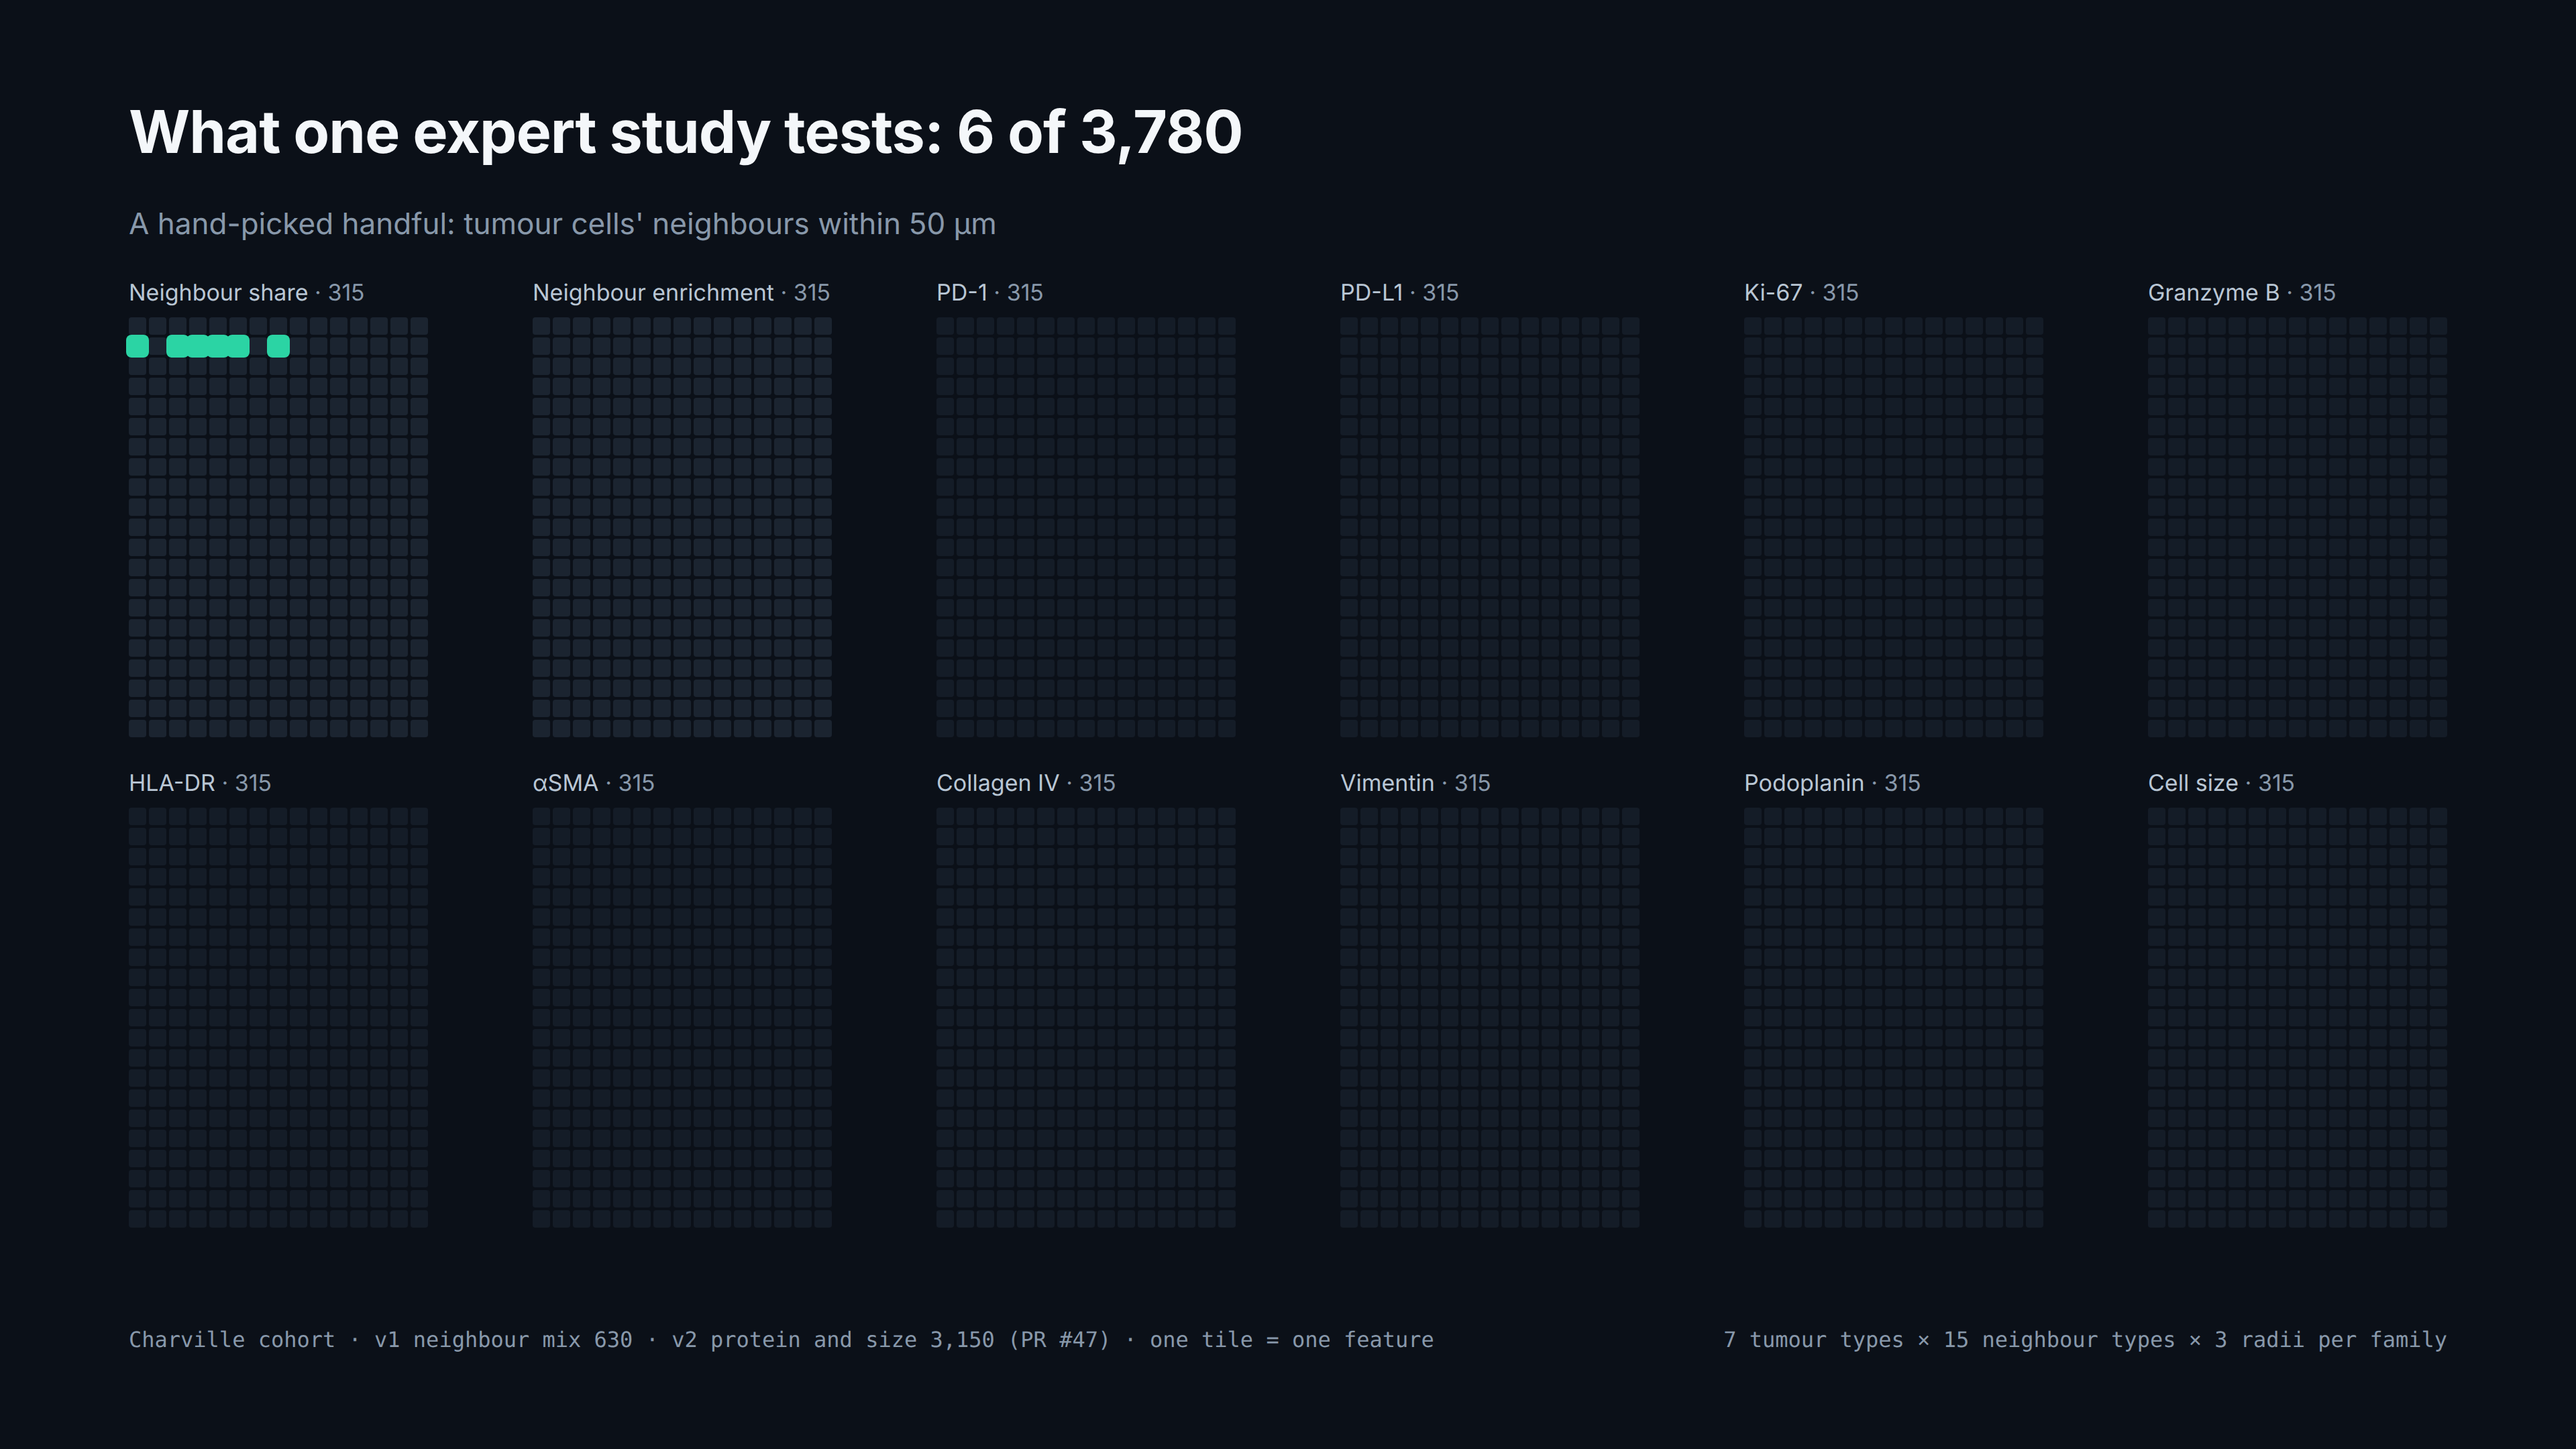
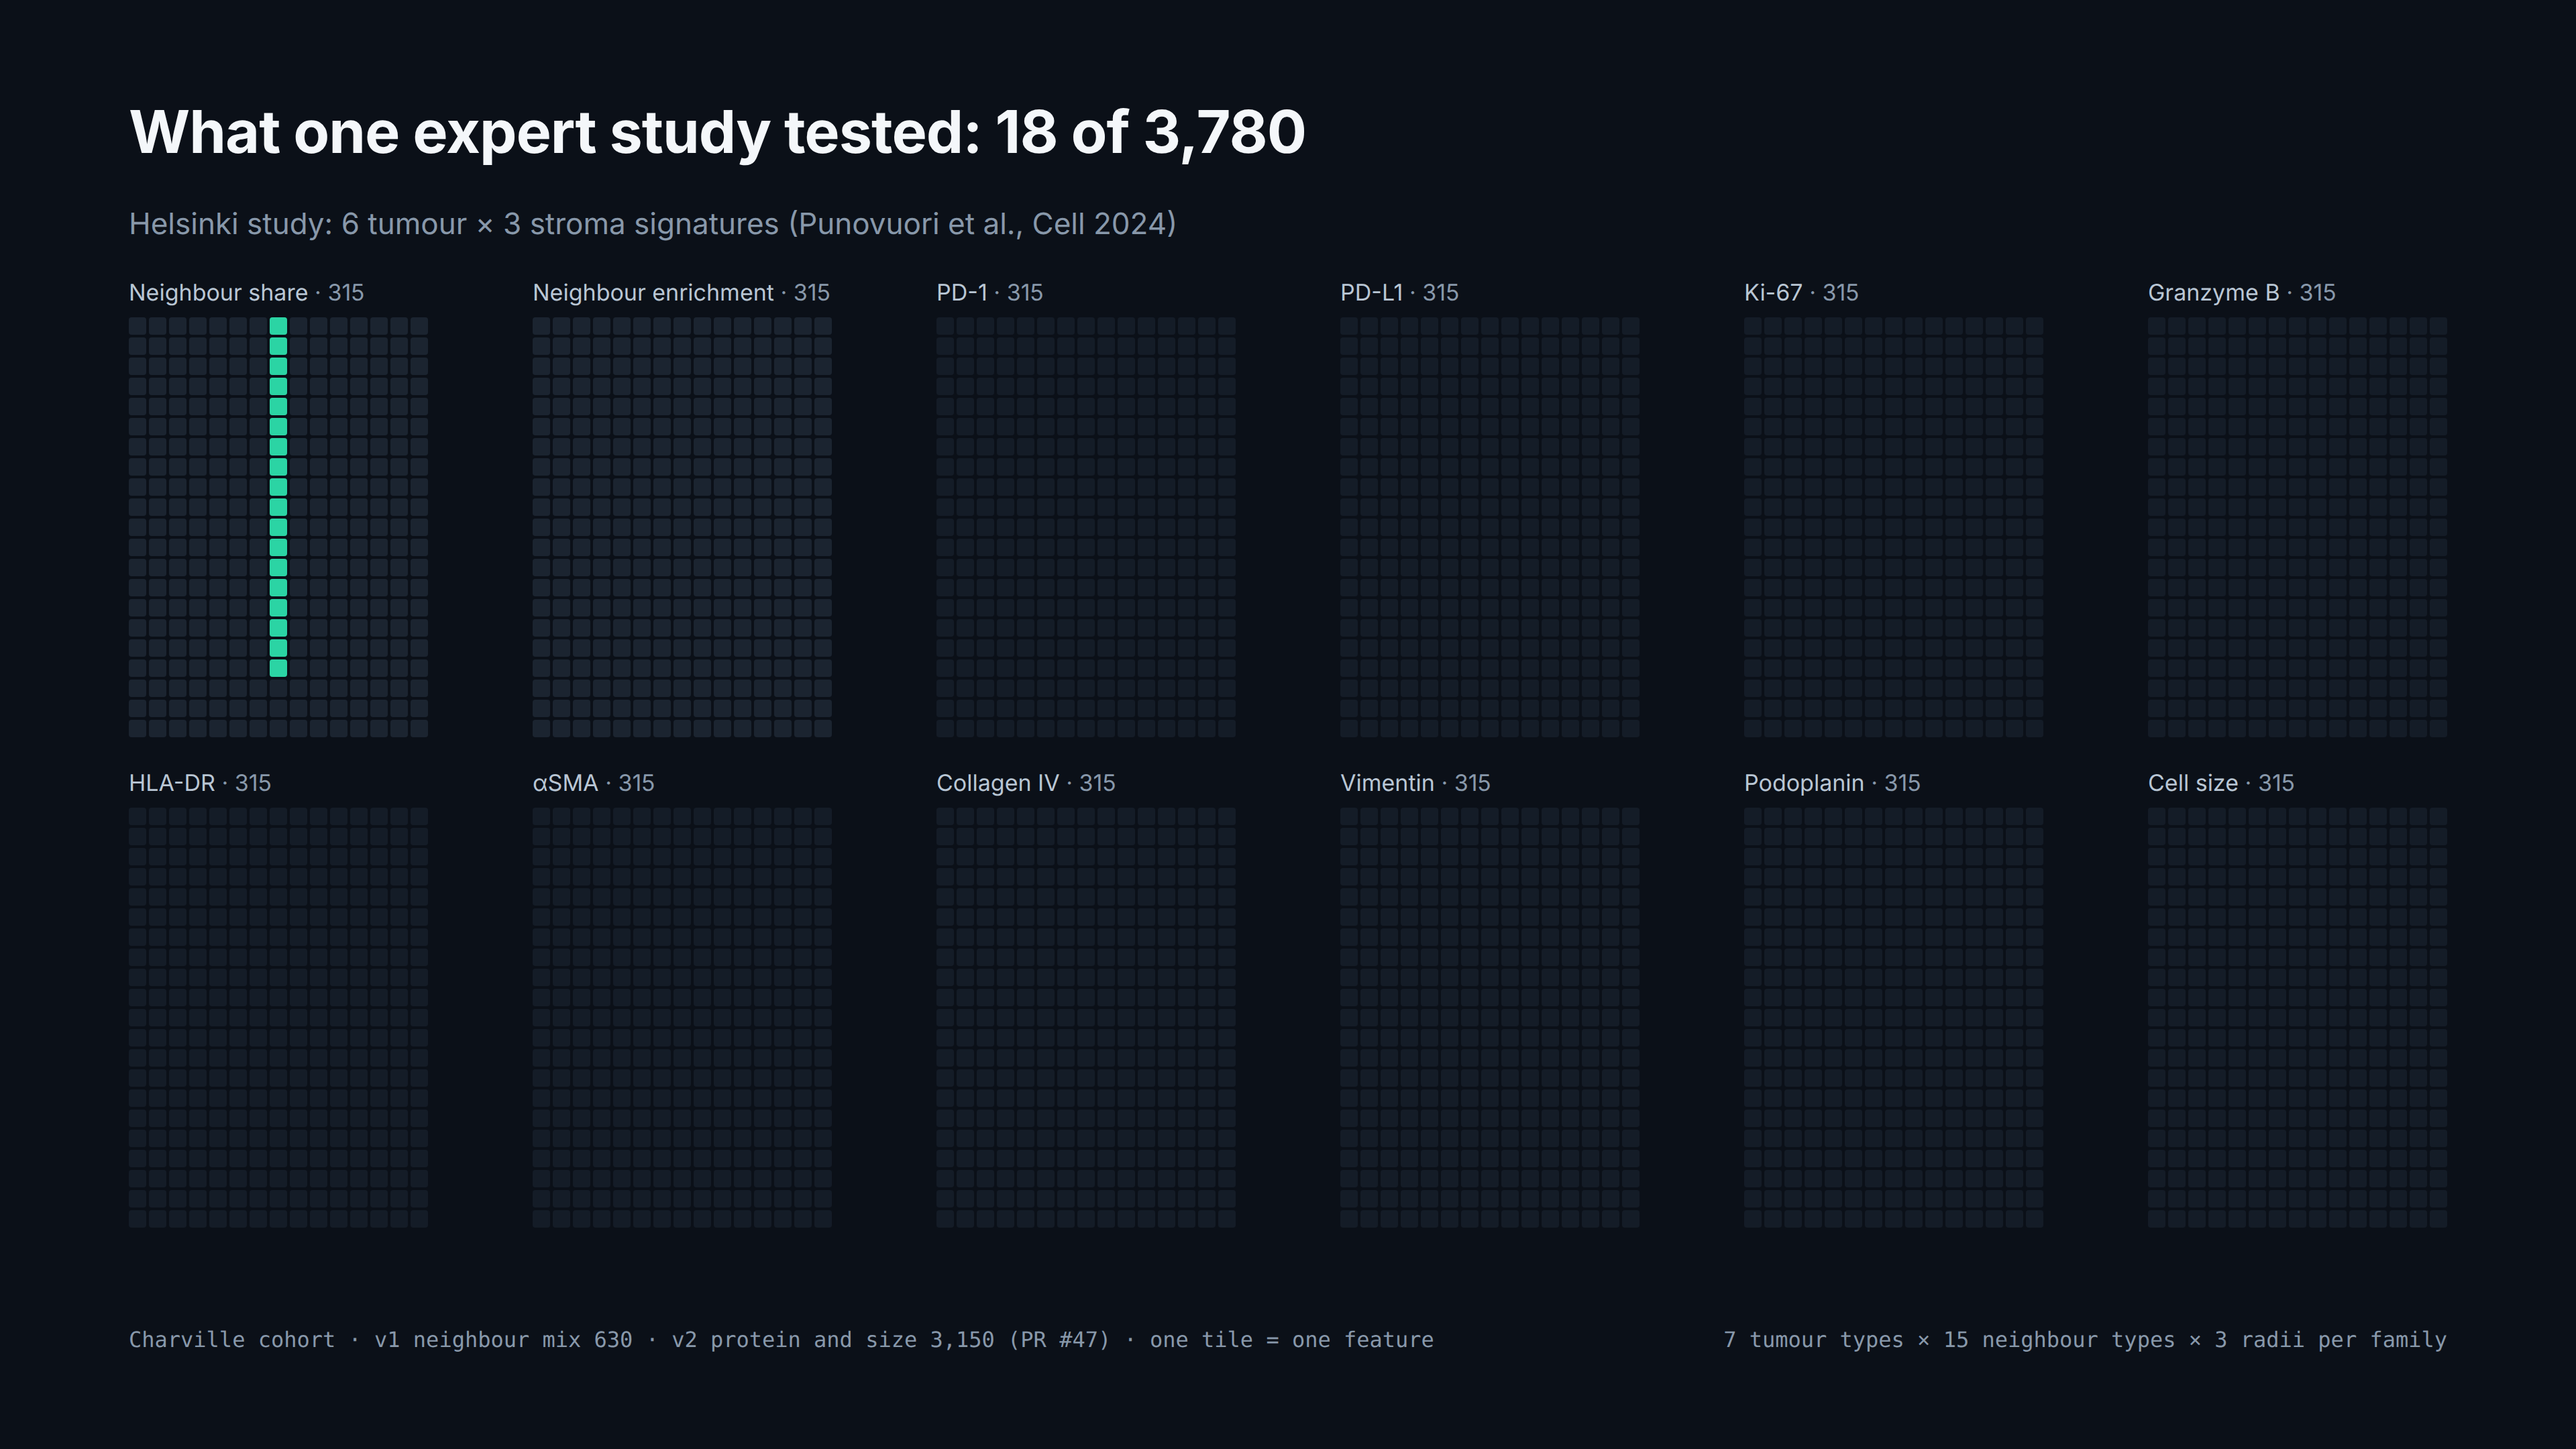
docs(pitch): wall highlights the Helsinki study's 18 of 3,780 (Refs #7)
Punovuori et al., Cell 2024 (p.7271-7272) crossed 6 epithelial with 3 stromal signatures.

Changed region(s): [[0.1562, 0.062, 0.5, 0.1861], [0.0312, 0.2171, 0.125, 0.4653], [0.0625, 0.1241, 0.1562, 0.1861]]

diff --git a/docs/assets/pitch/make_scenes.py b/docs/assets/pitch/make_scenes.py
@@ -111,8 +111,9 @@ RADII = [25, 50, 100]
 FAMILIES = [("fraction", "Neighbour share"), ("enrichment", "Neighbour enrichment"), ("PD1", "PD-1"), ("PDL1", "PD-L1"),
             ("Ki67", "Ki-67"), ("GranzymeB", "Granzyme B"), ("HLA-DR", "HLA-DR"), ("aSMA", "αSMA"),
             ("CollagenIV", "Collagen IV"), ("Vimentin", "Vimentin"), ("Podoplanin", "Podoplanin"), ("SIZE", "Cell size")]
-# shortcut: an illustrative hand-picked study (tumour neighbourhood shares at 50 um), not taken from a paper.
-EXPERT = {f"Tumor 1|{j}|50um|fraction" for j in ["CD8 T cell", "CD4 T cell", "Macrophage", "B cell", "Granulocyte", "Stroma"]}
+# The Helsinki study (Punovuori et al., Cell 2024, p.7271-7272) crossed 6 epithelial with 3 stromal signatures: 18 tests.
+# Its signatures are not our features; the 18 tiles (6 tumour types x stroma x 3 radii) stand in for the count only.
+EXPERT = {f"{t}|Stroma|{r}um|fraction" for t in FOCAL[:6] for r in RADII}
 
 
 def wall(expert: bool) -> str:
@@ -123,9 +124,10 @@ def wall(expert: bool) -> str:
     n2 = sum(len(b["on"]) for b in blocks if b["v"] == 2)
     assert (n1, n2) == (630, 3150)
     n_on = sum(map(sum, (b["on"] for b in blocks)))
-    title = (f"What one expert study tests: {n_on} of {n1 + n2:,}" if expert
+    assert not expert or n_on == 18
+    title = (f"What one expert study tested: {n_on} of {n1 + n2:,}" if expert
              else f"{n1 + n2:,} patterns in every study")
-    sub = ("A hand-picked handful: tumour cells' neighbours within 50 µm" if expert
+    sub = ("Helsinki study: 6 tumour × 3 stroma signatures (Punovuori et al., Cell 2024)" if expert
            else "Every tumour type × every neighbour type × three distances, by neighbour mix, protein and size")
     return f"""<!doctype html><meta charset="utf-8"><style>{CSS}
 .wall {{ display: grid; grid-template-columns: repeat(6, auto); gap: 24px 0; justify-content: space-between; }}
@@ -135,7 +137,7 @@ def wall(expert: bool) -> str:
 .g i {{ width: 13px; height: 13px; border-radius: 2px; background: #263546; }}
 .v1 .g i {{ background: #3A4B5E; }}
 .dim .g i {{ opacity: .35; }}
-.g i.on {{ background: var(--accent); opacity: 1; box-shadow: 0 0 0 2px var(--accent); }}
+.g i.on {{ background: var(--accent); opacity: 1; }}
 </style>
 <h1>{title}</h1><p class="sub">{sub}</p>
 <div class="wall {'dim' if expert else ''}" id="w"></div>
